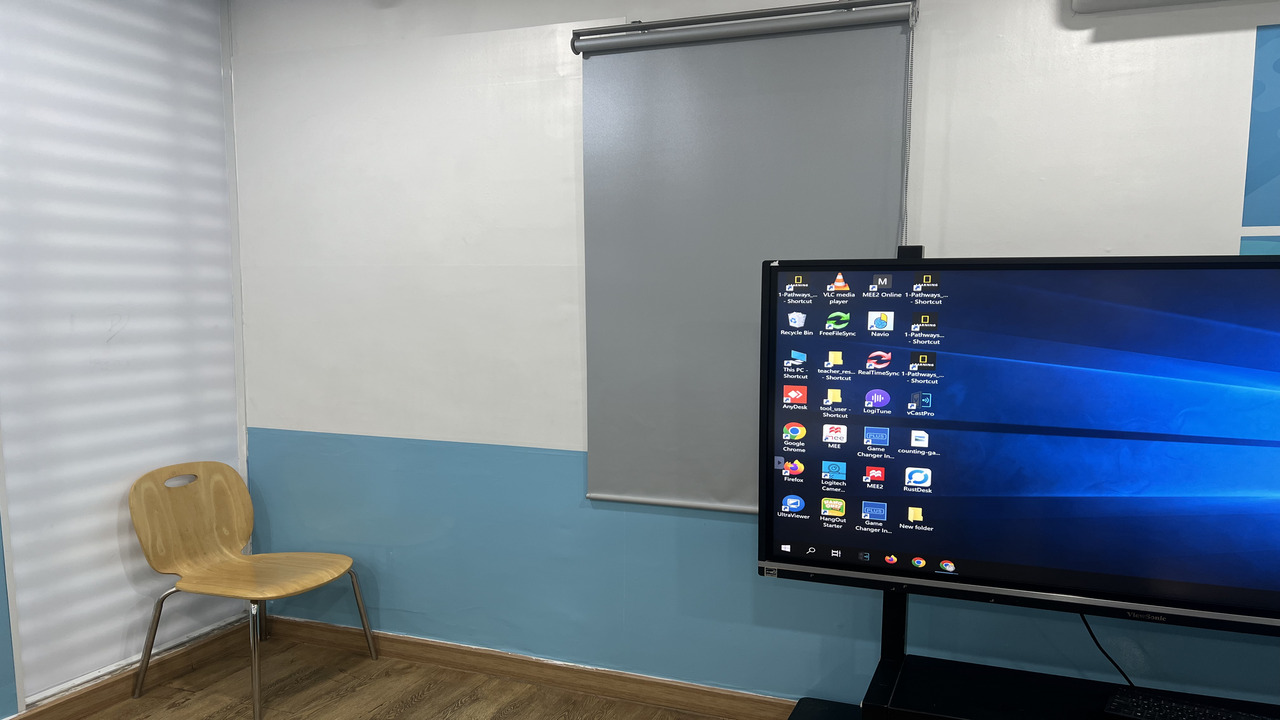
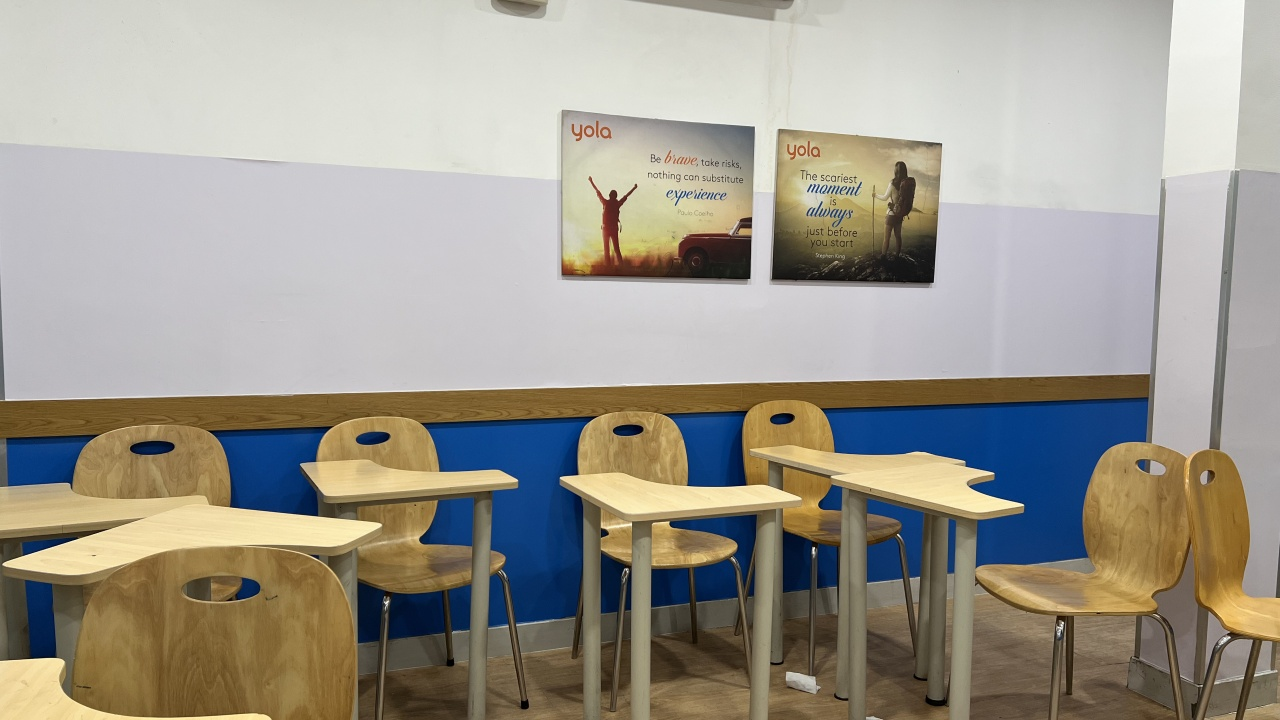
feat: opencv image resize, tasks: testcase update

diff --git a/scripts/image_resize.py b/scripts/image_resize.py
@@ -1,0 +1,233 @@
+import argparse
+from pathlib import Path
+
+import cv2
+import numpy as np
+
+
+RESOLUTIONS = {
+    "small": (1280, 720),
+    "medium": (1920, 1080),
+    "large": (3840, 2160),
+}
+
+
+def find_raw_image(raw_directory: Path, side: str) -> Path:
+    expected_stem = f"indoor_{side}"
+
+    candidates = [
+        path
+        for path in raw_directory.iterdir()
+        if path.is_file()
+        and path.stem.lower() == expected_stem
+        and path.suffix.lower() == ".png"
+    ]
+
+    if len(candidates) != 1:
+        raise ValueError(
+            f"Expected exactly one PNG named {expected_stem}.png "
+            f"in {raw_directory}; found {len(candidates)}."
+        )
+
+    return candidates[0]
+
+
+def load_png_bgr(path: Path) -> np.ndarray:
+    # Read through pathlib to support Unicode paths on Windows.
+    encoded = np.frombuffer(
+        path.read_bytes(),
+        dtype=np.uint8,
+    )
+
+    if encoded.size == 0:
+        raise ValueError(f"PNG file is empty: {path}")
+
+    # Decode directly to three-channel, 8-bit BGR.
+    image = cv2.imdecode(encoded, cv2.IMREAD_COLOR)
+
+    if image is None:
+        raise ValueError(f"Cannot decode PNG image: {path}")
+
+    return image
+
+
+def crop_to_16_9(image: np.ndarray):
+    height, width = image.shape[:2]
+
+    # Largest exact 16:9 rectangle that fits inside the image.
+    unit = min(width // 16, height // 9)
+
+    if unit == 0:
+        raise ValueError("Image is too small for a 16:9 crop.")
+
+    crop_width = 16 * unit
+    crop_height = 9 * unit
+
+    left = (width - crop_width) // 2
+    top = (height - crop_height) // 2
+
+    cropped = image[
+        top:top + crop_height,
+        left:left + crop_width,
+    ]
+
+    return cropped, (left, top, crop_width, crop_height)
+
+
+def resize_image(
+    image: np.ndarray,
+    width: int,
+    height: int,
+):
+    source_height, source_width = image.shape[:2]
+
+    if source_width == width and source_height == height:
+        return image.copy(), "no resizing"
+
+    if width <= source_width and height <= source_height:
+        interpolation = cv2.INTER_AREA
+        method = "INTER_AREA"
+    else:
+        interpolation = cv2.INTER_CUBIC
+        method = "INTER_CUBIC (upscaled)"
+
+    resized = cv2.resize(
+        image,
+        (width, height),
+        interpolation=interpolation,
+    )
+
+    return resized, method
+
+
+def save_jpeg(path: Path, image: np.ndarray):
+    success, encoded = cv2.imencode(
+        ".jpg",
+        image,
+        [cv2.IMWRITE_JPEG_QUALITY, 95],
+    )
+
+    if not success:
+        raise RuntimeError(f"JPEG encoding failed: {path}")
+
+    path.parent.mkdir(parents=True, exist_ok=True)
+    path.write_bytes(encoded.tobytes())
+
+    # Verify that the saved file decodes to the expected dimensions.
+    saved = cv2.imdecode(
+        np.frombuffer(path.read_bytes(), dtype=np.uint8),
+        cv2.IMREAD_COLOR,
+    )
+
+    if saved is None or saved.shape != image.shape:
+        raise RuntimeError(
+            f"Saved-image verification failed: {path}"
+        )
+
+
+def output_path(
+    site_directory: Path,
+    side: str,
+    label: str,
+    width: int,
+    height: int,
+) -> Path:
+    return (
+        site_directory
+        / f"{label}_{width}x{height}"
+        / f"indoor_{side}_{width}x{height}.jpg"
+    )
+
+
+def main():
+    project_root = Path(__file__).resolve().parent.parent
+
+    parser = argparse.ArgumentParser(
+        description=(
+            "Crop the indoor PNG pair to 16:9 and resize it "
+            "to 720p, 1080p, and 4K."
+        )
+    )
+
+    parser.add_argument(
+        "--site",
+        type=Path,
+        default=project_root / "dataset" / "site1_indoor",
+        help="Site directory containing the raw subdirectory.",
+    )
+
+    parser.add_argument(
+        "--overwrite",
+        action="store_true",
+        help="Replace existing resized images.",
+    )
+
+    args = parser.parse_args()
+
+    site_directory = args.site.resolve()
+    raw_directory = site_directory / "raw"
+
+    if not raw_directory.is_dir():
+        raise FileNotFoundError(
+            f"Raw directory does not exist: {raw_directory}"
+        )
+
+    sources = {
+        side: find_raw_image(raw_directory, side)
+        for side in ("left", "right")
+    }
+
+    # Check all destinations before writing any output.
+    for side in sources:
+        for label, (width, height) in RESOLUTIONS.items():
+            destination = output_path(
+                site_directory, side, label, width, height
+            )
+
+            if destination.exists() and not args.overwrite:
+                raise FileExistsError(
+                    f"Output already exists: {destination}\n"
+                    "Use --overwrite to replace existing outputs."
+                )
+
+    # Decode both inputs before generating output files.
+    images = {
+        side: load_png_bgr(source)
+        for side, source in sources.items()
+    }
+
+    print(f"OpenCV version: {cv2.__version__}")
+
+    for side, image in images.items():
+        source_height, source_width = image.shape[:2]
+
+        cropped, crop = crop_to_16_9(image)
+        left, top, crop_width, crop_height = crop
+
+        print(f"\nSource: {sources[side].name}")
+        print(f"Decoded dimensions: {source_width}x{source_height}")
+        print(
+            f"Crop: x={left}, y={top}, "
+            f"width={crop_width}, height={crop_height}"
+        )
+
+        for label, (width, height) in RESOLUTIONS.items():
+            # Every resolution comes directly from the same crop.
+            resized, method = resize_image(
+                cropped, width, height
+            )
+
+            destination = output_path(
+                site_directory, side, label, width, height
+            )
+
+            save_jpeg(destination, resized)
+
+            print(
+                f"Saved: {destination}\n"
+                f"  Dimensions: {width}x{height}; method: {method}"
+            )
+
+
+if __name__ == "__main__":
+    main()
